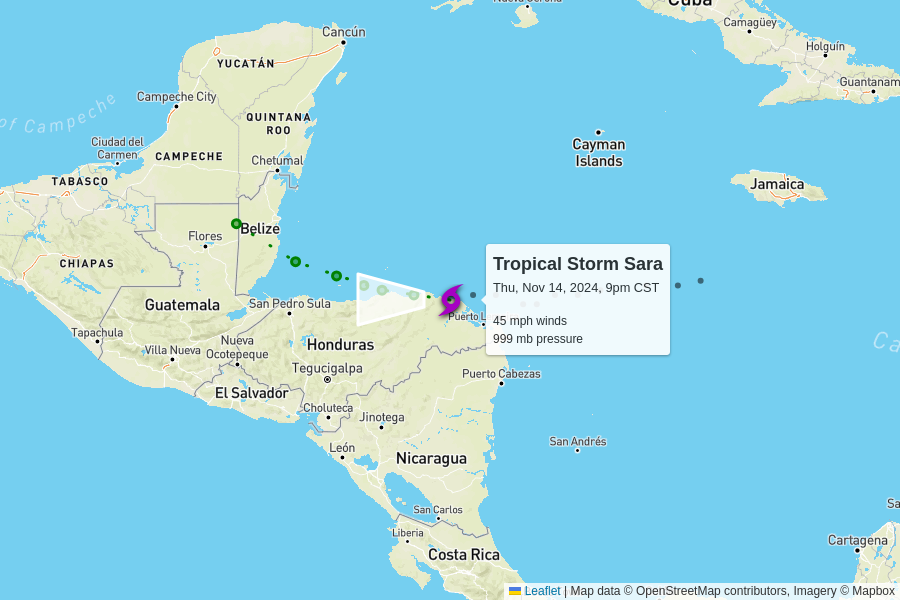
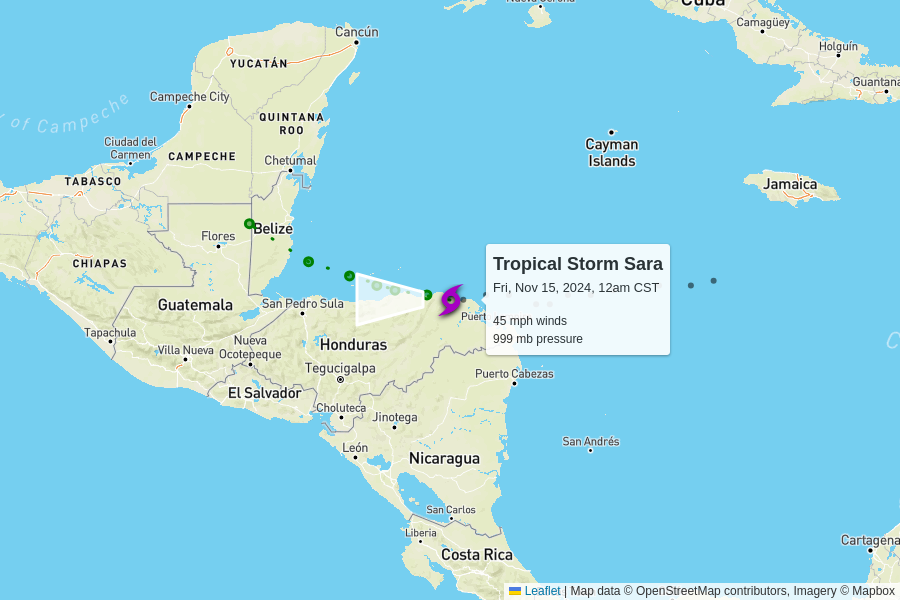
automatic update

diff --git a/docs/index.html b/docs/index.html
@@ -102,7 +102,7 @@
         <td colspan="6" class="storm category-0" >
           <h2>
             Tropical Storm Sara
-            <p class="updated">last updated <span data-time>2024-11-15T03:00:00.000Z</span></p>
+            <p class="updated">last updated <span data-time>2024-11-15T06:00:00.000Z</span></p>
           </h2>
         </td>
       </tr>
@@ -117,8 +117,8 @@
       </tr>
       <tr>
         <td class="spacer"></td>
-        <td>45 mph<br>+5 mph since last update</td>
-        <td>999 mb<br>+1 mb since last update</td>
+        <td>45 mph<br>0 mph since last update</td>
+        <td>999 mb<br>0 mb since last update</td>
         <td>
           10 mph to the west
           <br/>
